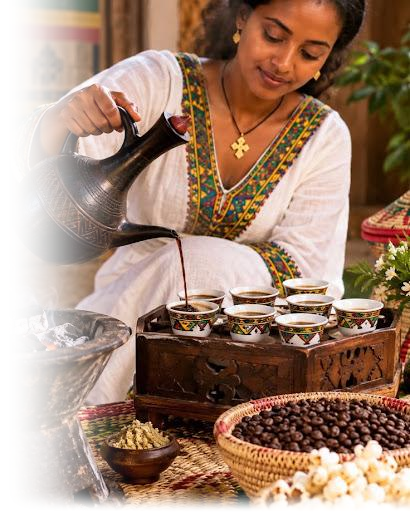
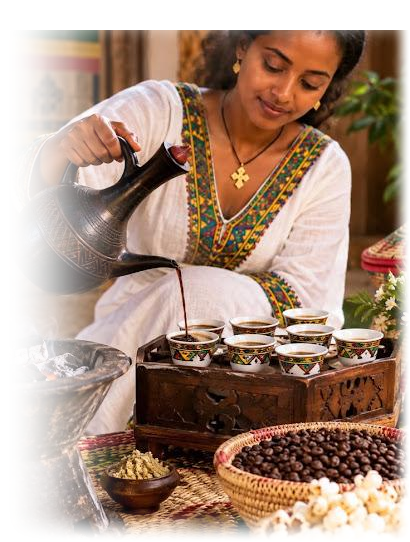
Refine mobile & desktop hero: frameless background blend, full headroom, balanced desktop height, and update contact number to +251925451711

diff --git a/index.html b/index.html
@@ -278,7 +278,7 @@
             <div class="flex flex-col gap-3 sm:gap-3.5 pt-1">
               
               <!-- Direct WhatsApp Button -->
-              <a class="p-3.5 sm:p-4 rounded-xl bg-white border border-border-subtle hover:border-brand-green flex items-center gap-3 sm:gap-3.5 shadow-sm transition-all group" href="https://wa.me/251911234567" rel="noopener noreferrer" target="_blank">
+              <a class="p-3.5 sm:p-4 rounded-xl bg-white border border-border-subtle hover:border-brand-green flex items-center gap-3 sm:gap-3.5 shadow-sm transition-all group" href="https://wa.me/251925451711" rel="noopener noreferrer" target="_blank">
                 <div class="w-10 h-10 rounded-lg bg-brand-green text-white flex items-center justify-center shrink-0">
                   <svg class="w-5 h-5 fill-current" viewBox="0 0 24 24">
                     <path d="M12.04 2c-5.46 0-9.91 4.45-9.91 9.91 0 1.75.46 3.45 1.32 4.95L2.05 22l5.25-1.38c1.45.79 3.08 1.21 4.74 1.21 5.46 0 9.91-4.45 9.91-9.91 0-2.65-1.03-5.14-2.9-7.01A9.816 9.816 0 0 0 12.04 2zm.01 1.67c2.2 0 4.26.86 5.82 2.42a8.225 8.225 0 0 1 2.41 5.83c0 4.54-3.7 8.24-8.24 8.24-1.48 0-2.93-.4-4.2-1.15l-.3-.18-3.12.82.83-3.04-.2-.31a8.196 8.196 0 0 1-1.26-4.38c0-4.54 3.7-8.24 8.24-8.24zm4.52 11.66c-.25-.13-1.47-.72-1.7-.81-.23-.08-.39-.13-.56.13-.17.25-.64.81-.79.97-.14.17-.29.19-.54.06-.25-.13-1.06-.39-2.02-1.25-.75-.67-1.25-1.49-1.4-1.74-.14-.25-.02-.39.11-.51.11-.11.25-.29.38-.44.13-.14.17-.25.25-.42.08-.17.04-.31-.02-.44-.06-.13-.56-1.35-.77-1.85-.2-.49-.41-.42-.56-.43h-.48c-.17 0-.44.06-.67.31-.23.25-.88.86-.88 2.1 0 1.24.9 2.43 1.03 2.6.13.17 1.78 2.72 4.31 3.81.6.26 1.07.42 1.44.54.61.19 1.16.17 1.6.1.49-.07 1.47-.6 1.68-1.18.21-.58.21-1.08.15-1.18-.06-.1-.23-.17-.48-.3z"></path>
@@ -407,7 +407,7 @@
             Beyond Coffee, Building Coffee Businesses. Empowering specialty coffee entrepreneurs and hospitality operators across Ethiopia and worldwide.
           </p>
           <div class="flex items-center gap-3 pt-1">
-            <a class="w-8 h-8 rounded-full bg-white/10 hover:bg-brand-green flex items-center justify-center text-white transition-colors" href="https://wa.me/251911234567" target="_blank" title="WhatsApp">
+            <a class="w-8 h-8 rounded-full bg-white/10 hover:bg-brand-green flex items-center justify-center text-white transition-colors" href="https://wa.me/251925451711" target="_blank" title="WhatsApp">
               <svg class="w-4 h-4 fill-current" viewBox="0 0 24 24"><path d="M12.04 2c-5.46 0-9.91 4.45-9.91 9.91 0 1.75.46 3.45 1.32 4.95L2.05 22l5.25-1.38c1.45.79 3.08 1.21 4.74 1.21 5.46 0 9.91-4.45 9.91-9.91 0-2.65-1.03-5.14-2.9-7.01A9.816 9.816 0 0 0 12.04 2zm.01 1.67c2.2 0 4.26.86 5.82 2.42a8.225 8.225 0 0 1 2.41 5.83c0 4.54-3.7 8.24-8.24 8.24-1.48 0-2.93-.4-4.2-1.15l-.3-.18-3.12.82.83-3.04-.2-.31a8.196 8.196 0 0 1-1.26-4.38c0-4.54 3.7-8.24 8.24-8.24zm4.52 11.66c-.25-.13-1.47-.72-1.7-.81-.23-.08-.39-.13-.56.13-.17.25-.64.81-.79.97-.14.17-.29.19-.54.06-.25-.13-1.06-.39-2.02-1.25-.75-.67-1.25-1.49-1.4-1.74-.14-.25-.02-.39.11-.51.11-.11.25-.29.38-.44.13-.14.17-.25.25-.42.08-.17.04-.31-.02-.44-.06-.13-.56-1.35-.77-1.85-.2-.49-.41-.42-.56-.43h-.48c-.17 0-.44.06-.67.31-.23.25-.88.86-.88 2.1 0 1.24.9 2.43 1.03 2.6.13.17 1.78 2.72 4.31 3.81.6.26 1.07.42 1.44.54.61.19 1.16.17 1.6.1.49-.07 1.47-.6 1.68-1.18.21-.58.21-1.08.15-1.18-.06-.1-.23-.17-.48-.3z"></path></svg>
             </a>
             <a class="w-8 h-8 rounded-full bg-white/10 hover:bg-sky-600 flex items-center justify-center text-white transition-colors" href="https://t.me/ethiopiansignature" target="_blank" title="Telegram">

diff --git a/src/components/Contact.tsx b/src/components/Contact.tsx
@@ -74,7 +74,7 @@ export default function Contact() {
             {/* Direct WhatsApp Button */}
             <a
               className="p-3.5 sm:p-4 rounded-xl bg-surface-white border border-border-subtle hover:border-brand-green flex items-center gap-3 sm:gap-3.5 shadow-cozy-sm hover:shadow-cozy transition-all group"
-              href="https://wa.me/251911234567"
+              href="https://wa.me/251925451711"
               rel="noopener noreferrer"
               target="_blank"
             >
@@ -88,7 +88,7 @@ export default function Contact() {
                   Chat on WhatsApp
                 </h5>
                 <p className="text-[11px] sm:text-xs text-text-muted">
-                  +251 91 123 4567 (Direct Advisory)
+                  +251 92 545 1711 (Direct Advisory)
                 </p>
               </div>
             </a>
@@ -96,7 +96,7 @@ export default function Contact() {
             {/* Direct Telegram Button */}
             <a
               className="p-3.5 sm:p-4 rounded-xl bg-surface-white border border-border-subtle hover:border-brand-green flex items-center gap-3 sm:gap-3.5 shadow-cozy-sm hover:shadow-cozy transition-all group"
-              href="https://t.me/ethiopiansignature"
+              href="https://t.me/+251925451711"
               rel="noopener noreferrer"
               target="_blank"
             >
@@ -109,7 +109,7 @@ export default function Contact() {
                 <h5 className="text-xs sm:text-sm font-bold text-text-main group-hover:text-brand-green transition-colors">
                   Connect on Telegram
                 </h5>
-                <p className="text-[11px] sm:text-xs text-text-muted">@ethiopiansignature</p>
+                <p className="text-[11px] sm:text-xs text-text-muted">+251 92 545 1711</p>
               </div>
             </a>
 
@@ -121,7 +121,7 @@ export default function Contact() {
               <div>
                 <h5 className="text-xs sm:text-sm font-bold text-text-main">Phone Inquiry</h5>
                 <p className="text-[11px] sm:text-xs text-text-muted">
-                  +251 91 123 4567 / +251 92 987 6543
+                  +251 92 545 1711
                 </p>
               </div>
             </div>

diff --git a/src/components/Hero.tsx b/src/components/Hero.tsx
@@ -38,13 +38,13 @@ export default function Hero() {
         </div>
       </div>
 
-      {/* Right Column: Authentic Blended Ceremony Showcase (Expanded to left, natural head, seamless fade) */}
+      {/* Right Column: Authentic Blended Ceremony Showcase (Frameless, fits naturally, seamless background blend) */}
       <div className="lg:col-span-6 order-1 lg:order-2 flex items-center justify-center lg:justify-end">
-        <div className="relative w-full max-w-[420px] sm:max-w-[460px] lg:max-w-[560px] aspect-[410/512] flex items-center justify-center lg:justify-end rounded-2xl lg:rounded-none overflow-hidden lg:overflow-visible shadow-cozy lg:shadow-none">
+        <div className="relative w-full max-w-[360px] sm:max-w-[420px] lg:max-w-[480px] h-[340px] sm:h-[400px] lg:h-[440px] flex items-center justify-center lg:justify-end">
           {/* eslint-disable-next-line @next/next/no-img-element */}
           <img
             alt="Traditional Ethiopian Coffee Ceremony"
-            className="w-full h-full object-contain object-center lg:object-right lg:[mask-image:linear-gradient(to_right,transparent_0%,rgba(0,0,0,0.5)_18%,black_42%)] lg:[-webkit-mask-image:linear-gradient(to_right,transparent_0%,rgba(0,0,0,0.5)_18%,black_42%)] transition-transform duration-700 hover:scale-[1.01]"
+            className="w-full h-full object-contain object-center lg:object-right lg:[mask-image:linear-gradient(to_right,transparent_0%,rgba(0,0,0,0.5)_16%,black_40%)] lg:[-webkit-mask-image:linear-gradient(to_right,transparent_0%,rgba(0,0,0,0.5)_16%,black_40%)] transition-transform duration-700 hover:scale-[1.01]"
             src="/ceremony-blended.png"
           />
         </div>

diff --git a/src/components/Footer.tsx b/src/components/Footer.tsx
@@ -47,7 +47,7 @@ export default function Footer() {
         <div className="flex items-center gap-3 pt-1">
           <a
             className="h-9 px-4 rounded-full bg-white/10 hover:bg-brand-green text-xs font-semibold text-white flex items-center gap-2 transition-all border border-white/15 shadow-sm active:scale-95"
-            href="https://wa.me/251911234567"
+            href="https://wa.me/251925451711"
             target="_blank"
             rel="noopener noreferrer"
           >
@@ -58,7 +58,7 @@ export default function Footer() {
           </a>
           <a
             className="h-9 px-4 rounded-full bg-white/10 hover:bg-sky-600 text-xs font-semibold text-white flex items-center gap-2 transition-all border border-white/15 shadow-sm active:scale-95"
-            href="https://t.me/ethiopiansignature"
+            href="https://t.me/+251925451711"
             target="_blank"
             rel="noopener noreferrer"
           >

diff --git a/src/components/StickyChatButton.tsx b/src/components/StickyChatButton.tsx
@@ -9,7 +9,7 @@ export default function StickyChatButton() {
       <a
         aria-label="Chat with Ethiopian Signature Coffee on WhatsApp"
         className="relative flex items-center gap-2.5 h-12 sm:h-13 px-4 sm:px-5 rounded-full bg-brand-green hover:bg-brand-green-dark text-white font-semibold text-xs sm:text-sm shadow-roast-bloom hover:shadow-cozy-lg active:scale-95 transition-all duration-300 ring-2 ring-white/30 backdrop-blur-sm"
-        href="https://wa.me/251911234567"
+        href="https://wa.me/251925451711"
         rel="noopener noreferrer"
         target="_blank"
       >

diff --git a/src/app/page.tsx b/src/app/page.tsx
@@ -20,7 +20,7 @@ export default function Home() {
       <Header />
 
       {/* Main Content Container with Warm Porcelain Base */}
-      <main className="flex-1 w-full pt-16 sm:pt-20 md:pt-24 pb-28 md:pb-20 bg-surface-cream">
+      <main className="flex-1 w-full pt-10 sm:pt-14 md:pt-16 pb-28 md:pb-20 bg-surface-cream">
         <div className="max-w-7xl mx-auto px-4 sm:px-6 lg:px-8 flex flex-col gap-14 sm:gap-20 md:gap-28">
           <Hero />
           <About />
